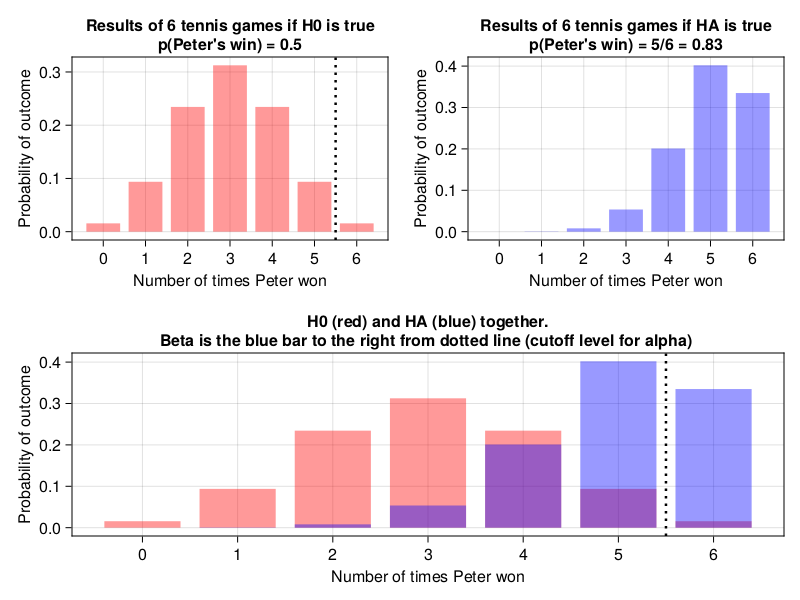
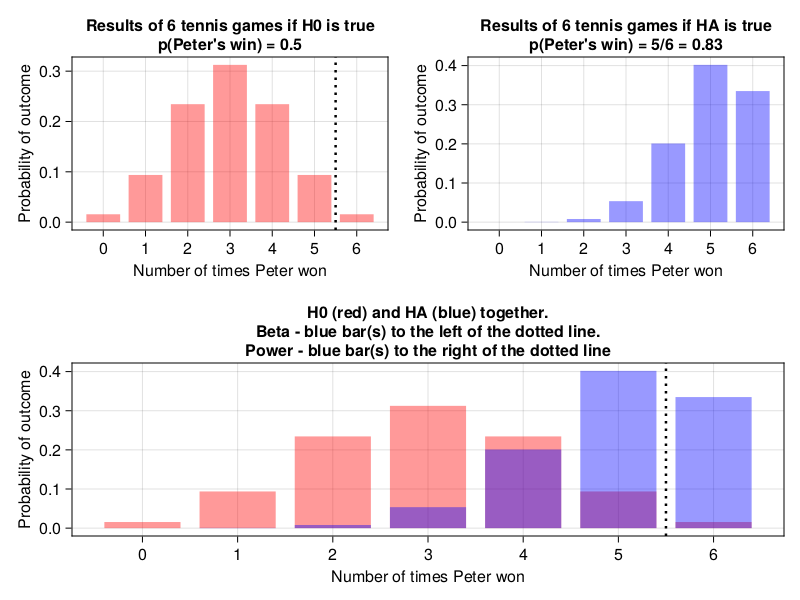
corrected error in graphical part of ch04/ex5 solution

diff --git a/contents/statistics_intro.md b/contents/statistics_intro.md
@@ -1266,7 +1266,9 @@ Now let's run the experiment, let's say `100_000` times and see how many times w
 ```jl
 s = """
 function play6tennisGamesGetPvalue()::Float64
+	# result when HA is true
     result::Int = getResultOf6TennisGamesUnderHA()
+	# probability for rejecting H0, calculated under assumption that H0 is true
     oneTailPval::Float64 = dsts.pdf.(dsts.Binomial(6, 0.5), result:6) |> sum
     return oneTailPval
 end
@@ -1315,8 +1317,8 @@ Finally we get our results. We can compare them with the cutoff values from @sec
 
 If you want to see a graphical representation of the solution to exercise 5 take a look at the figure below.
 
-![Graphical representation of type II error estimation.](./images/tennisBetaExample.png){#fig:tennisBetaExample}
+![Graphical representation of estimation process for type II error and the power of a test.](./images/tennisBetaExample.png){#fig:tennisBetaExample}
 
-The top panels display the probability distributions for our experiment (6 games of tennis) under $H_{0}$ (red bars) and $H_{A}$ (blue bars). The black dotted vertical line is a cutoff level for type I error (or $\alpha$), which is 0.05. The bottom panel contains the distributions superimposed one on the other. The probability of type II error (or $\beta$) is the height of the blue bar(s) to the right from the black dotted vertical line (the cutoff level for type I error).
+The top panels display the probability distributions for our experiment (6 games of tennis) under $H_{0}$ (red bars) and $H_{A}$ (blue bars). The black dotted vertical line is a cutoff level for type I error (or $\alpha$), which is 0.05. The bottom panel contains the distributions superimposed one on the other. The probability of type II error (or $\beta$) is the sum of the of blue bar(s) to the left from the black dotted vertical line (the cutoff level for type I error). The power of a test is the sum of the heights of blue bar(s) to the right from the black dotted vertical line (the cutoff level for type I error).
 
 To be continued...
